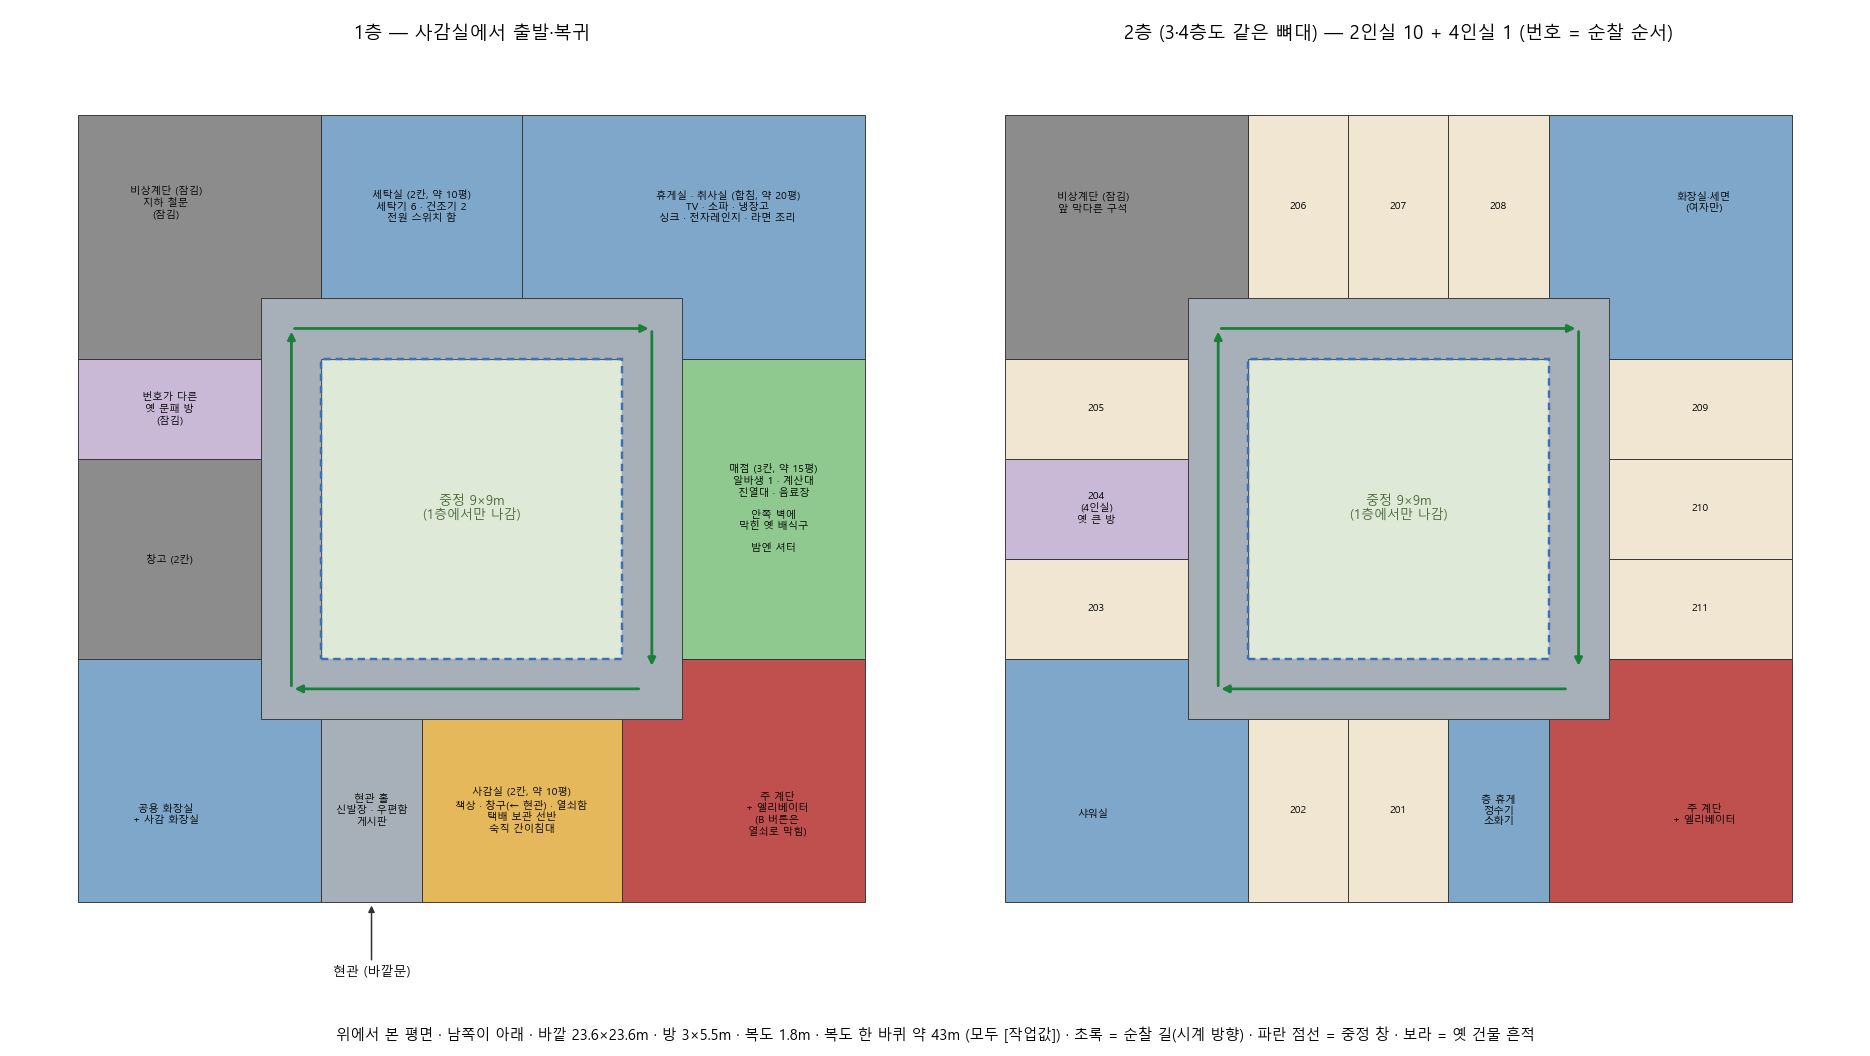
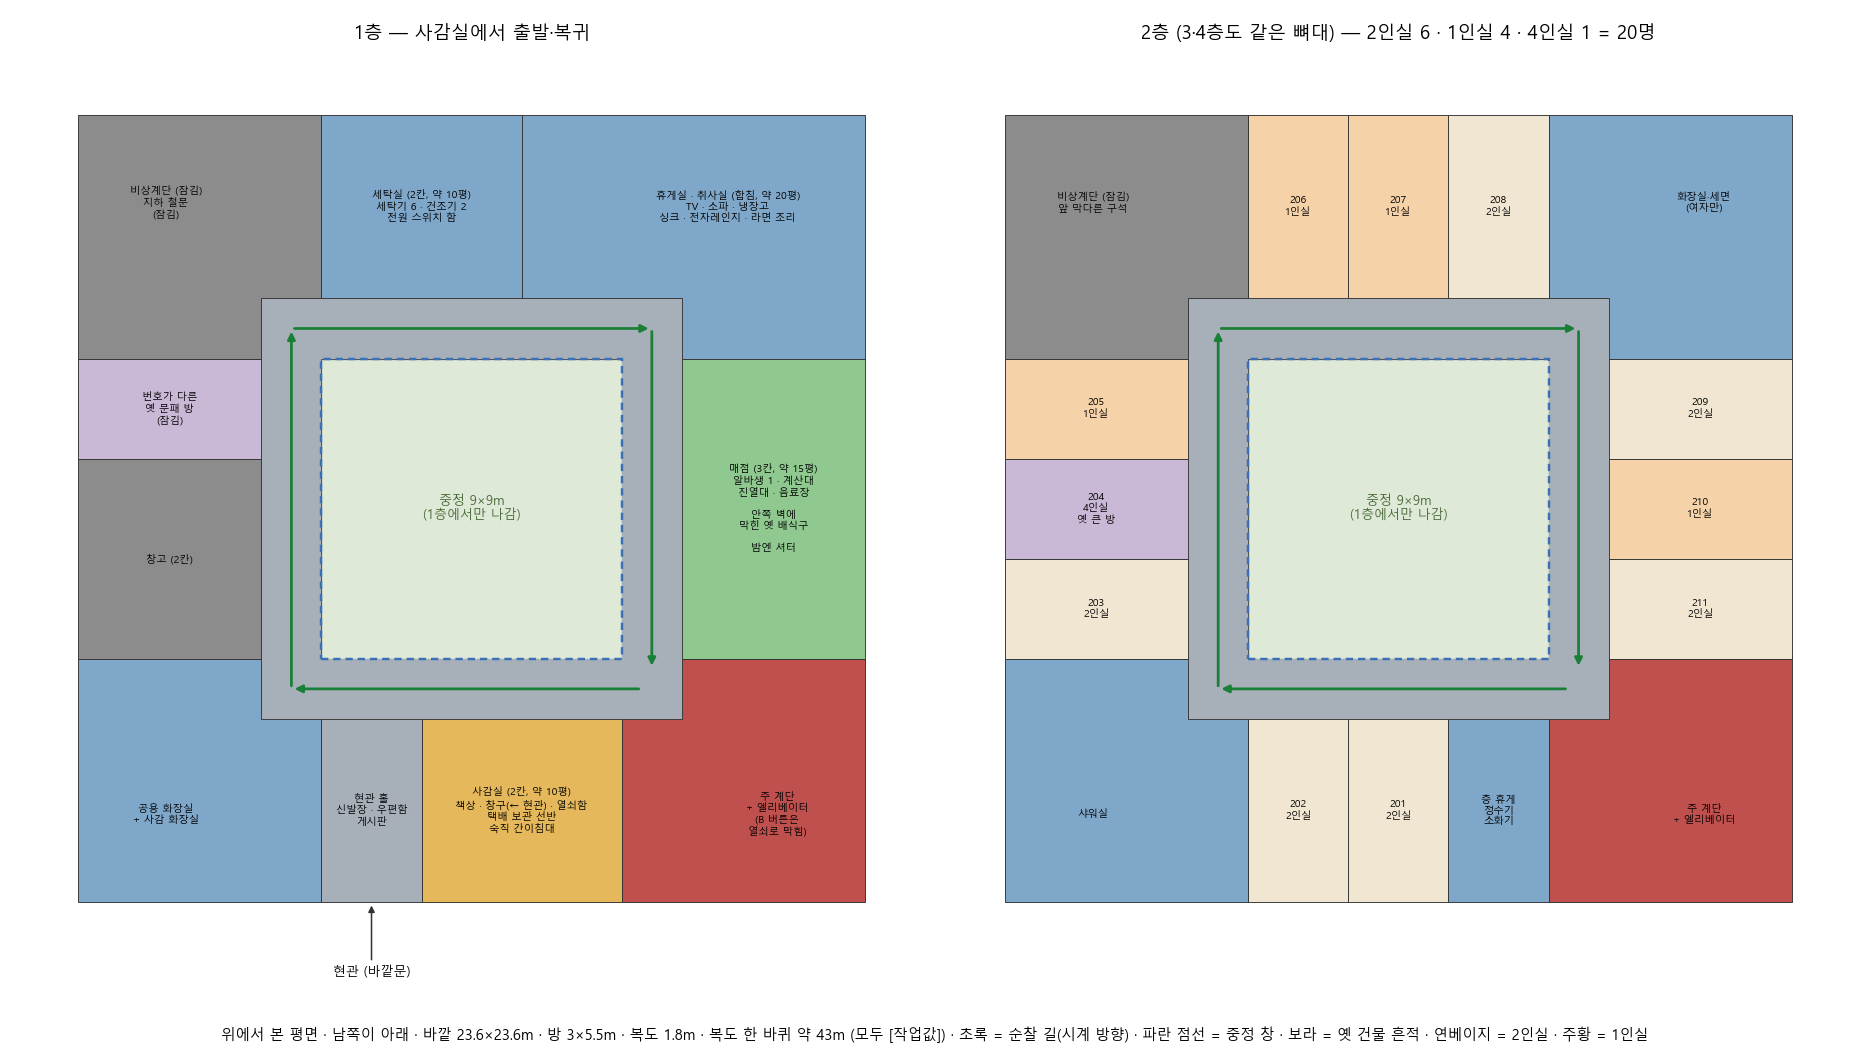
기획: 1인실·2인실 섞기(층마다 2인실 6·1인실 4·4인실 1), 평면 다시 그림

diff --git a/docs/STATUS.md b/docs/STATUS.md
@@ -22,6 +22,7 @@ _마지막 갱신: 2026-11-28 · **새 채팅은 PC Claude Code에서 시작 —
 7. 사용자 결정 대기: 건물 이름 · 메인 기숙생 고르기 · 게임 길이 · 가제 · 밤 방식(어두운 빛 / 거친 저해상도) · 정확한 등신(작업값 5.5)
 
 ## 최근 완료
+- 2026-11-28: **1인실·2인실 섞기** [확정] — 층마다 2인실 6 · 1인실 4 · 옛 4인실 1 = 20명, 전체 56명 자리(4층 북쪽 빈방) · 평면 두 장 다시 그림 (building-layout §17)
 - 2026-11-28: **3·4층·옥상 평면** — 3층 = 2층 뼈대 + 공중전화 · 4층 북쪽 406~408 빈방(잠김), 북서 막다른 구석 '복도 끝' 창문(수칙 6), 주 계단 위 계단탑·옥상 문 · 옥상 = 낮은 난간(바깥·중정)·물탱크·빨래 줄·옛 굴뚝(막힘)·비상계단 해치·옛 안테나 · 엘리베이터 '5층 버튼' 후보 (building-layout §16)
 - 2026-11-28: **1층 3차 · 습성 시설 빼기** — 종족 습성 배려 시설 빼기 [확정] · 1층: 식당 없음, 매점 3칸(15평, 옛 배식구 남음) · 세탁실 2칸(10평) · 휴게실+취사실 합침(20평) · 독서실+창고 → 창고 (building-layout §13·§14) · 사감실 2칸(10평, 택배 선반·숙직 침대 포함, 현관은 서쪽 칸으로) [확정]
 - 2026-11-28: **건물 결정 2차** — 매점 알바생 1명·물건 구매 [확정] · 엘리베이터(주 계단 옆, B 버튼 열쇠로 막힘) [확정] · 지하 = 잠긴 의문의 공간 [확정 방향] · 시대감 80~90년대 [작업값] · 크기 추천안 방 3×5.5m·복도 1.8m → 바깥 23.6m·중정 9m·한 바퀴 43m · 평면 다시 그림 (building-layout §11)
@@ -31,7 +32,6 @@ _마지막 갱신: 2026-11-28 · **새 채팅은 PC Claude Code에서 시작 —
 - 2026-11-28: **회색 상자 판 Unreal 시작** — `DormHorror/` C++ 프로젝트 빌드 · Git LFS · Godot 정리(태그 `godot-last`) · 사감 1인칭(2.6 m/s·숙이기·손전등·E) · 하루 진행기(시간대 5개, csv → 데이터 표, 밤 불 꺼짐) · 물건 6종 · 시험 복도 · 한글 HUD · Claude가 스스로 플레이·찍어 확인 (`img/graybox_20261128/ue_graybox_v1.jpg`, tech-plan §5-6)
 - 2026-11-28: **엔진 Unreal 5.8 확정** (사용자) — 그림·현실 밤 우세, 걷기는 값 고쳐 해결 · Godot [폐기·대체] · 구조 [작업값]: C++ 중심 + Python 편집기 자동화 + CSV→DataTable + Enhanced Input + Git LFS · CLAUDE.md·README 고침 (tech-plan §5-6·§6)
 - 2026-11-28: **사용자 걸어 보기 소감 · Unreal 걷기 고침** — 그림·현실 밤 Unreal 우세, 걷기 Unity 우세(Unreal 6 m/s 달리기) → Unreal 2.6 m/s·숙이기(Shift 켜고 끄기) 추가 · 엔진 Unreal 기울어짐 [후보] (engine-test-corridor §5-5)
-- 2026-11-28: **두 엔진 걸어 보기 준비** — Unity 실행 파일(1인칭·현실도 1~5·N 밤·F 손전등·fps 표시, 약 350~480 fps) · Unreal은 엔진 1인칭 템플릿 + 편집기 플레이(120 fps 상한) · 둘 다 Claude가 스스로 찍어 확인 · 실행 `dorm-engine-test/walk_*.bat` (engine-test-corridor §5-4)
 
 ## 막힌 것 / 확인 필요
 - 구미호로 만든 3D 시험 대역(툰 셰이더·표정 바꾸기 층·시험 장면)은 마네킹 [확정]과 겹쳐 main에 안 넣음 → 브랜치 `char3d-kumiho-placeholder`에 보관(2026-11-26).
